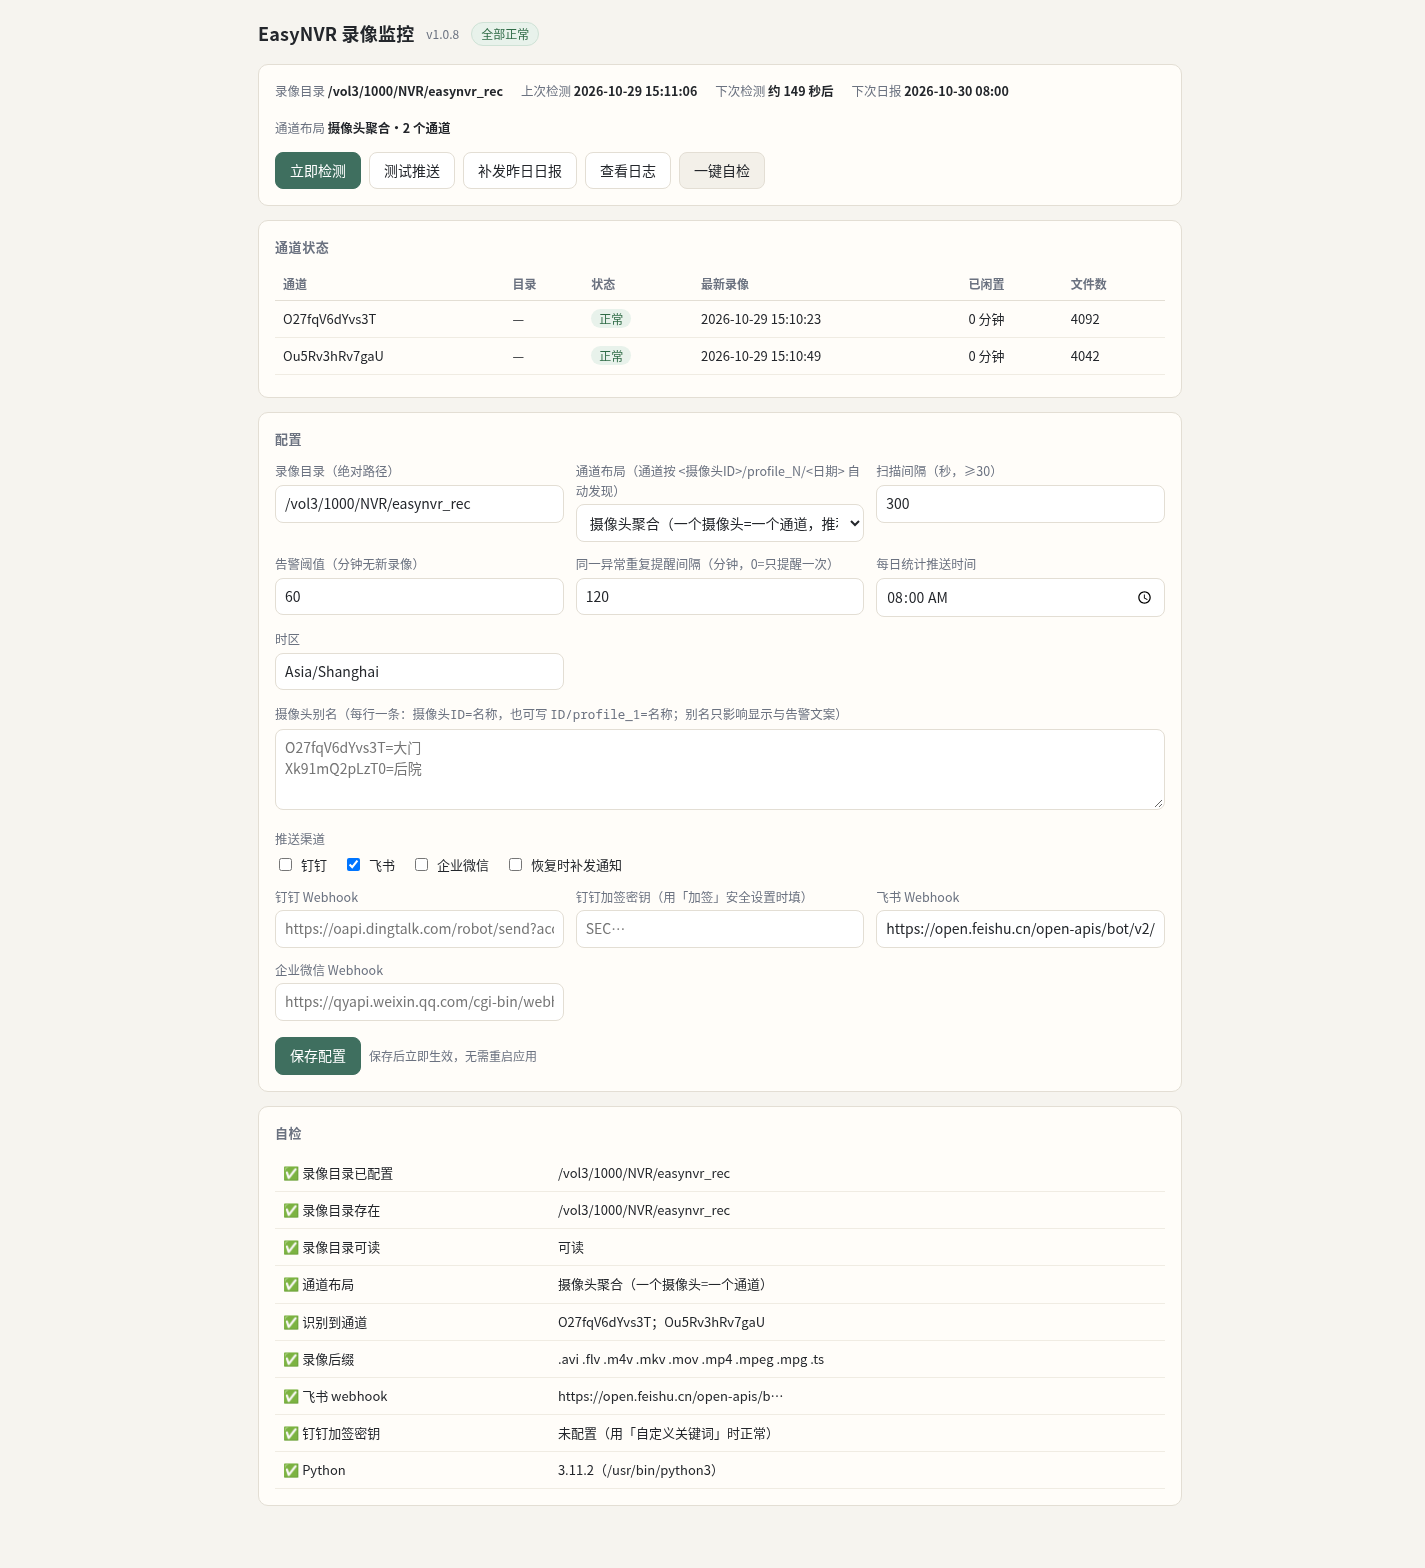
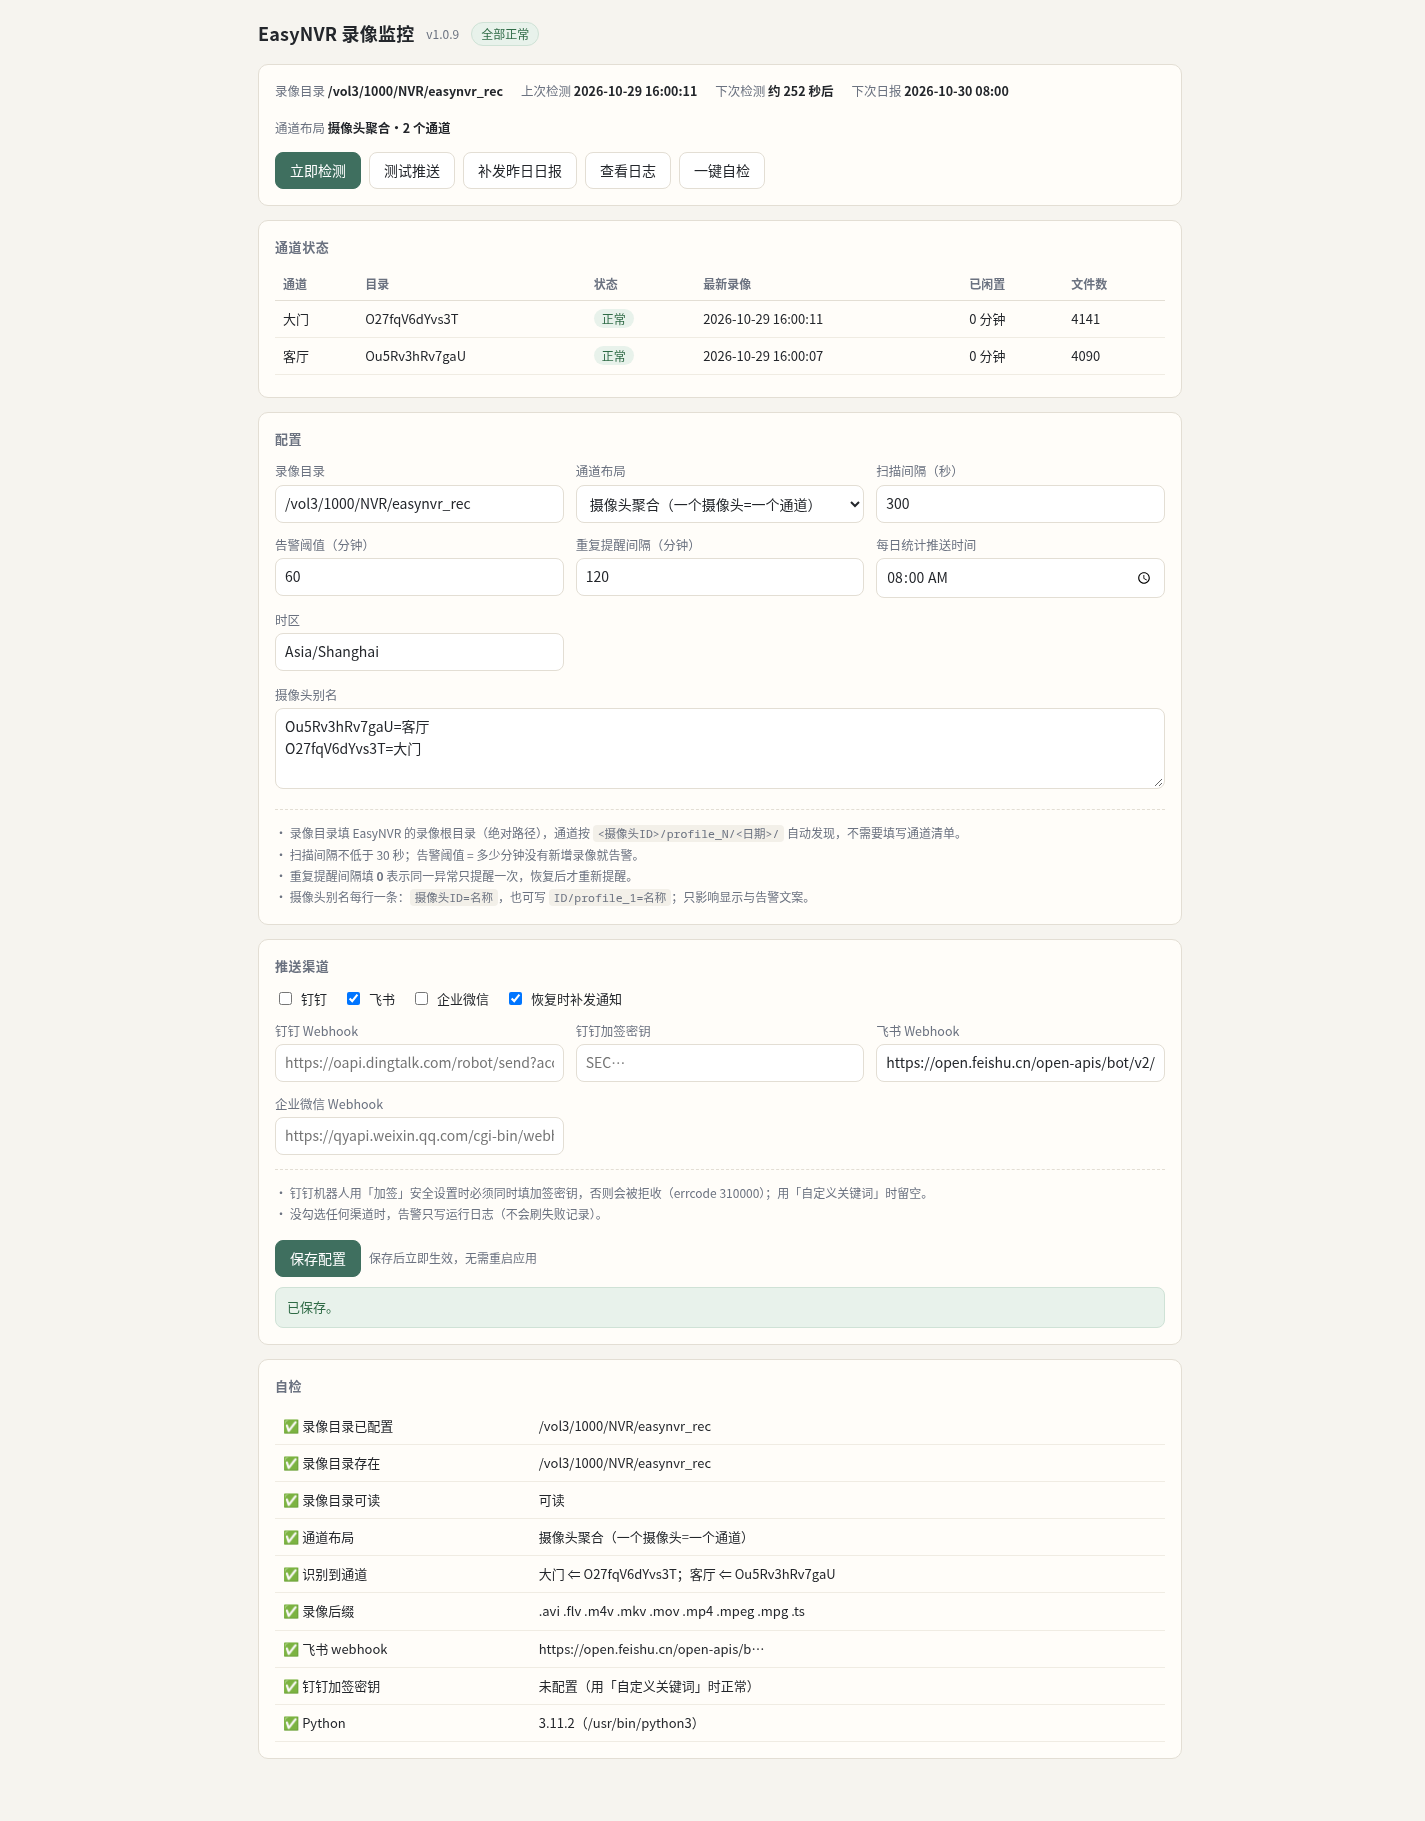
style(ui): 配置区排版整理 v1.0.9 — 长说明移到卡片底部注释块，配置/推送渠道拆两张卡
- 标签只留字段名：「通道布局（通道按 <摄像头ID>/profile_N/<日期> 自动发现）」等长标签
  在窄列会折行，现把说明统一放进 .notes 注释块（虚线分隔、灰色小字、code 标目录结构）
- 「配置」与「推送渠道」拆成两张卡片；同一个 form 包住两块，保存按钮放推送渠道卡片底部
- 标签瘦身：重复提醒间隔（分钟，0=只提醒一次）→ 重复提醒间隔（分钟），0 语义写进注释
- 实测：桌面 16 个标签全部单行（19~20px）；375px 视口 scrollWidth=375 无溢出
- 预览图按新排版重拍；selftest 79 项仍全过；版本 1.0.9

diff --git a/erm/app/www/index.html b/erm/app/www/index.html
@@ -54,6 +54,9 @@
   .checks{display:flex;gap:16px;flex-wrap:wrap;margin-top:6px}
   .checks label{display:flex;align-items:center;gap:6px;margin:0;color:var(--ink);font-size:13px}
   .hint{font-size:12px;color:var(--muted);margin-top:6px}
+  .notes{font-size:12px;color:var(--muted);line-height:1.75;margin-top:14px;
+         padding-top:12px;border-top:1px dashed var(--line)}
+  .notes code{font-size:11.5px;background:#f3f0e9;border-radius:4px;padding:1px 5px}
   .msg{margin-top:10px;font-size:13px;padding:9px 11px;border-radius:8px;
        border:1px solid var(--line);background:#fff;white-space:pre-wrap;display:none}
   .msg.show{display:block}
@@ -128,31 +131,31 @@
     <div class="hint" id="rootErr"></div>
   </div>
 
-  <div class="card">
-    <h2>配置</h2>
-    <form id="cfgForm" onsubmit="return false">
+  <form id="cfgForm" onsubmit="return false">
+    <div class="card">
+      <h2>配置</h2>
       <div class="grid">
         <div>
-          <label>录像目录（绝对路径）</label>
+          <label>录像目录</label>
           <input type="text" id="record_root" placeholder="/vol1/1000/easynvr/record">
         </div>
         <div>
-          <label>通道布局（通道按 &lt;摄像头ID&gt;/profile_N/&lt;日期&gt; 自动发现）</label>
+          <label>通道布局</label>
           <select id="channel_layout">
-            <option value="camera">摄像头聚合（一个摄像头=一个通道，推荐）</option>
+            <option value="camera">摄像头聚合（一个摄像头=一个通道）</option>
             <option value="profile">按 profile 分开（主/子码流各算一个）</option>
           </select>
         </div>
         <div>
-          <label>扫描间隔（秒，≥30）</label>
+          <label>扫描间隔（秒）</label>
           <input type="number" id="scan_interval" min="30" step="30">
         </div>
         <div>
-          <label>告警阈值（分钟无新录像）</label>
+          <label>告警阈值（分钟）</label>
           <input type="number" id="alert_threshold_minutes" min="1">
         </div>
         <div>
-          <label>同一异常重复提醒间隔（分钟，0=只提醒一次）</label>
+          <label>重复提醒间隔（分钟）</label>
           <input type="number" id="alert_silence_minutes" min="0">
         </div>
         <div>
@@ -166,25 +169,37 @@
       </div>
 
       <div style="margin-top:14px">
-        <label>摄像头别名（每行一条：<code>摄像头ID=名称</code>，也可写 <code>ID/profile_1=名称</code>；别名只影响显示与告警文案）</label>
+        <label>摄像头别名</label>
         <textarea id="channel_aliases" rows="3" placeholder="O27fqV6dYvs3T=大门&#10;Xk91mQ2pLzT0=后院"></textarea>
       </div>
 
-      <div style="margin-top:14px">
-        <label>推送渠道</label>
-        <div class="checks">
-          <label><input type="checkbox" id="ch_dingtalk"> 钉钉</label>
-          <label><input type="checkbox" id="ch_feishu"> 飞书</label>
-          <label><input type="checkbox" id="ch_wechat"> 企业微信</label>
-          <label><input type="checkbox" id="notify_recovery"> 恢复时补发通知</label>
-        </div>
+      <div class="notes">
+        · 录像目录填 EasyNVR 的录像根目录（绝对路径），通道按 <code>&lt;摄像头ID&gt;/profile_N/&lt;日期&gt;/</code> 自动发现，不需要填写通道清单。<br>
+        · 扫描间隔不低于 30 秒；告警阈值 = 多少分钟没有新增录像就告警。<br>
+        · 重复提醒间隔填 <b>0</b> 表示同一异常只提醒一次，恢复后才重新提醒。<br>
+        · 摄像头别名每行一条：<code>摄像头ID=名称</code>，也可写 <code>ID/profile_1=名称</code>；只影响显示与告警文案。
+      </div>
+    </div>
+
+    <div class="card">
+      <h2>推送渠道</h2>
+      <div class="checks">
+        <label><input type="checkbox" id="ch_dingtalk"> 钉钉</label>
+        <label><input type="checkbox" id="ch_feishu"> 飞书</label>
+        <label><input type="checkbox" id="ch_wechat"> 企业微信</label>
+        <label><input type="checkbox" id="notify_recovery"> 恢复时补发通知</label>
       </div>
 
       <div class="grid" style="margin-top:12px">
         <div><label>钉钉 Webhook</label><input type="text" id="dingtalk_webhook" placeholder="https://oapi.dingtalk.com/robot/send?access_token=…"></div>
-        <div><label>钉钉加签密钥（用「加签」安全设置时填）</label><input type="text" id="dingtalk_secret" placeholder="SEC…"></div>
+        <div><label>钉钉加签密钥</label><input type="text" id="dingtalk_secret" placeholder="SEC…"></div>
         <div><label>飞书 Webhook</label><input type="text" id="feishu_webhook" placeholder="https://open.feishu.cn/open-apis/bot/v2/hook/…"></div>
         <div><label>企业微信 Webhook</label><input type="text" id="wechat_webhook" placeholder="https://qyapi.weixin.qq.com/cgi-bin/webhook/send?key=…"></div>
+      </div>
+
+      <div class="notes">
+        · 钉钉机器人用「加签」安全设置时必须同时填加签密钥，否则会被拒收（errcode 310000）；用「自定义关键词」时留空。<br>
+        · 没勾选任何渠道时，告警只写运行日志（不会刷失败记录）。
       </div>
 
       <div class="row" style="margin-top:16px">
@@ -192,8 +207,8 @@
         <span class="hint" style="margin:0">保存后立即生效，无需重启应用</span>
       </div>
       <div class="msg" id="saveMsg"></div>
-    </form>
-  </div>
+    </div>
+  </form>
 
   <div class="card" id="doctorCard" style="display:none">
     <h2>自检</h2>

diff --git a/erm/app/server.py b/erm/app/server.py
@@ -30,7 +30,7 @@ from urllib.parse import parse_qs, urlparse
 
 APP_NAME = "erm"
 GATEWAY_PREFIX = "/app/" + APP_NAME
-VERSION = "1.0.8"
+VERSION = "1.0.9"
 
 SELF = os.path.abspath(__file__)
 APP_DEST = os.path.dirname(SELF)           # app/ 的内容直接铺到 target 根

diff --git a/CHANGELOG.md b/CHANGELOG.md
@@ -10,6 +10,19 @@
 - Release 附件：`EasyNVR-RecordAlert-<版本>.fpk`
 - 主题写正文首行 `## v<版本> · 主题`；仓库内构建产物固定 `dist/erm.fpk`
 
+## v1.0.9
+
+配置区排版整理（纯 UI，不动逻辑）：
+
+- 输入框标签里的大段说明（如「通道布局（通道按 `<摄像头ID>/profile_N/<日期>` 自动发现）」）
+  会随卡片宽度自动折行、很丑 → **标签只留字段名**，说明统一挪到卡片底部的
+  **注释块**（虚线分隔、灰色小字、`code` 包住目录结构）。
+- **「配置」与「推送渠道」拆成两张卡片**，保存按钮放在「推送渠道」卡片底部
+  （同一次保存仍然一起提交，改配置不用点两次）。
+- 标签顺手瘦身：`同一异常重复提醒间隔（分钟，0=只提醒一次）` → `重复提醒间隔（分钟）`，
+  `0` 的语义写进注释块；`扫描间隔（秒，≥30）` → `扫描间隔（秒）`，下限写进注释块。
+- 新增 `.notes` 样式（`border-top:1px dashed`，手机端同样生效）。
+
 ## v1.0.8
 
 按实际使用反馈瘦身配置项 —— 之前那几个「通道」设置和 EasyNVR 的真实目录结构对不上：
